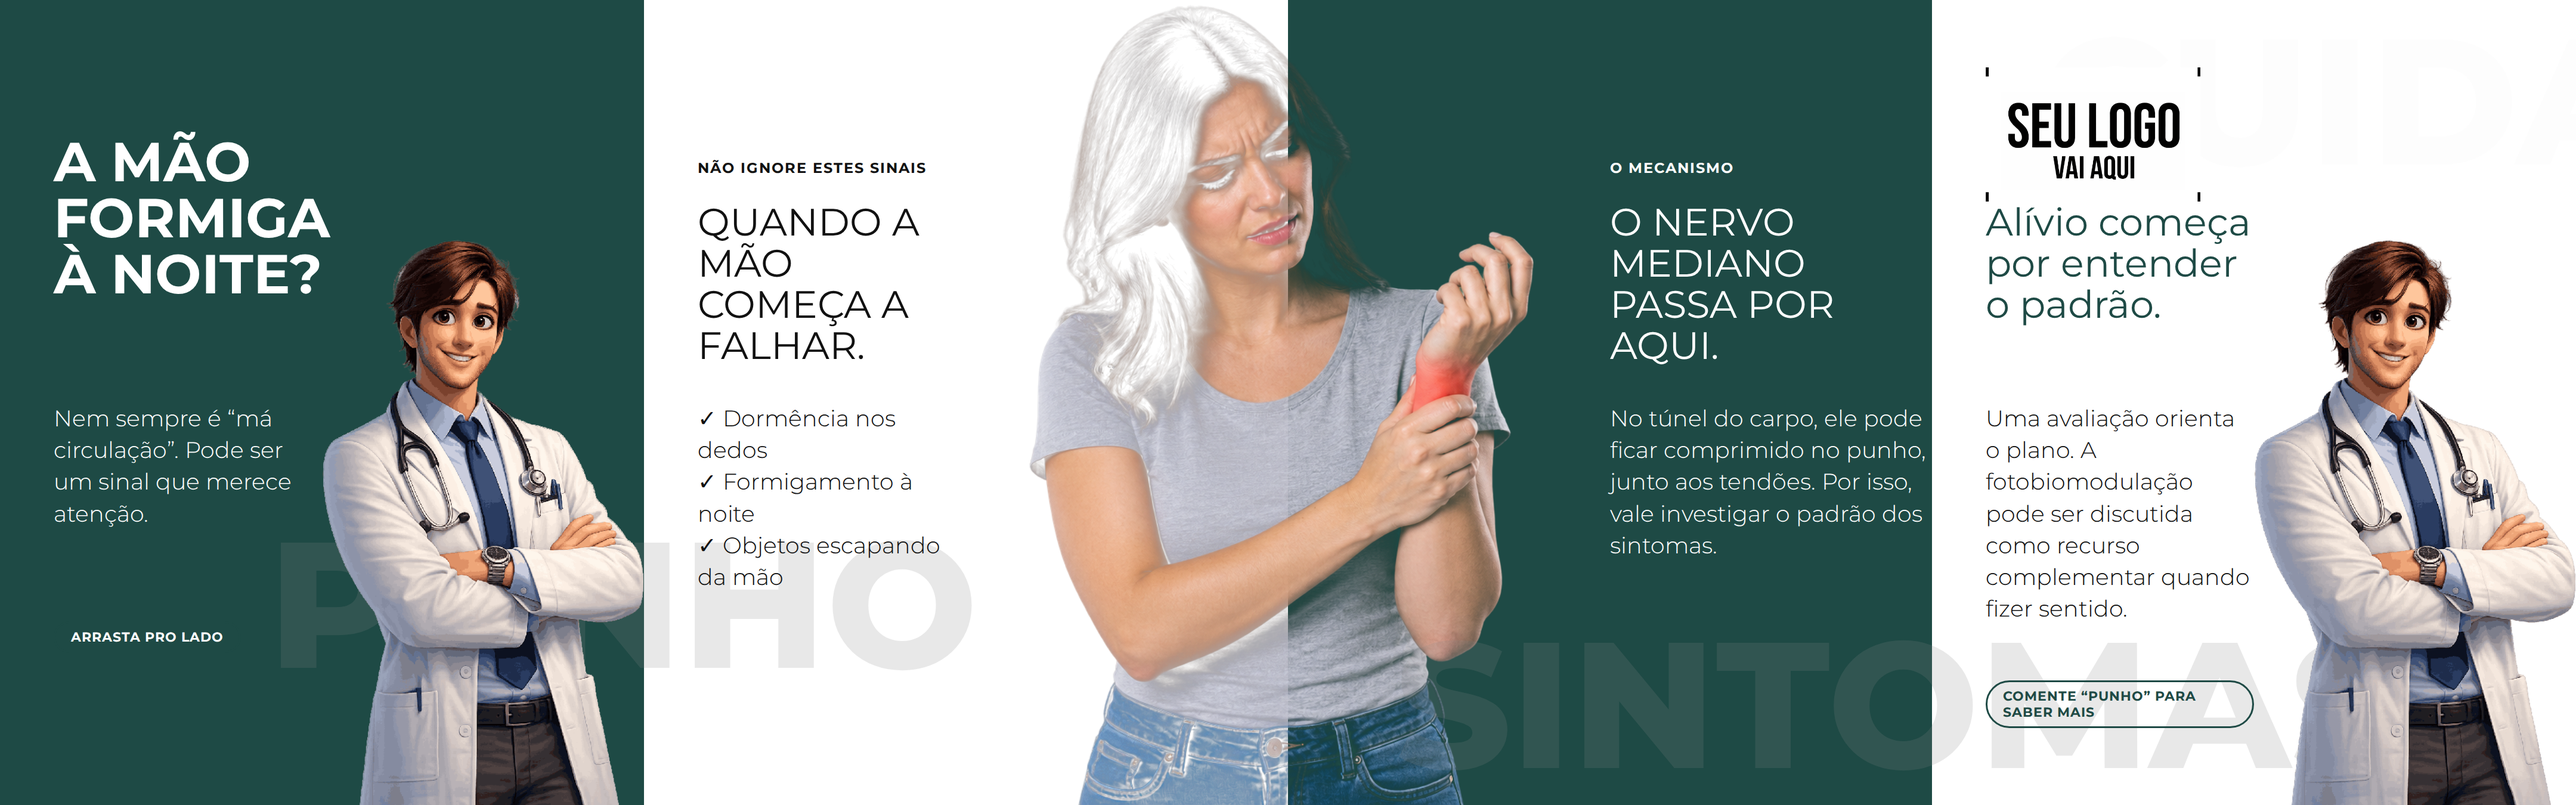
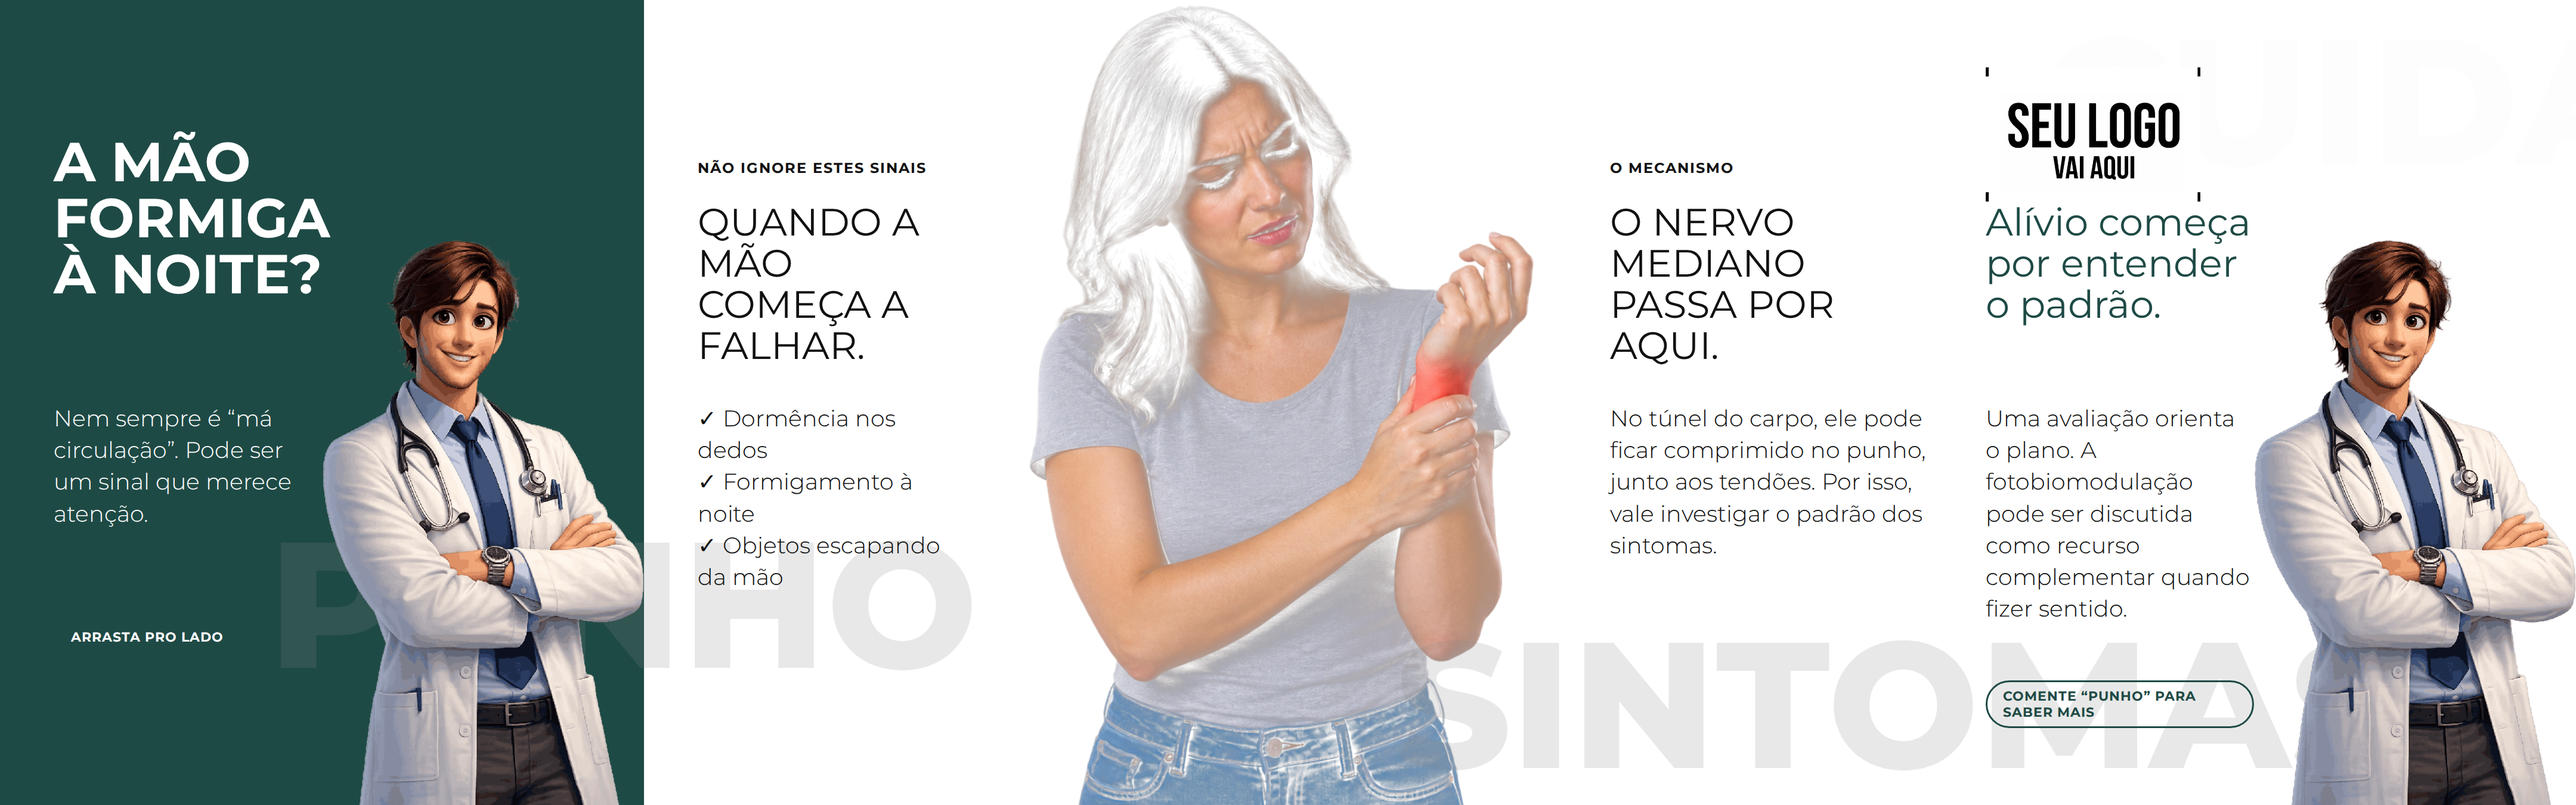
cert: corrigir miolo branco da fita carpo

Changed region(s): [[0.5, 0.0, 0.75, 1.0]]

diff --git a/packs/laserpro-continuo/certification/cert-lp-v1-carpo-4.md b/packs/laserpro-continuo/certification/cert-lp-v1-carpo-4.md
@@ -15,6 +15,10 @@ conversão → judge → upload. A imagem de travessia é PNG RGBA, centralizada
 encosta na base (0 px de margem transparente inferior); o problema aparece
 antes de qualquer equipamento — esta fita não usa imagem de aparelho.
 
+Correção pós-certificação: S3 voltou ao fundo branco e sua copy voltou a tinta;
+assim, apenas a capa permanece invertida e a travessia S2→S3 fica sobre o
+miolo claro contínuo.
+
 ## Evidências visuais
 
 - `cert-lp-v1-carpo-4-strip.png`
